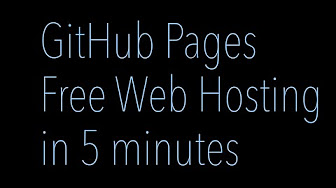
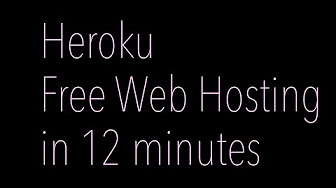
lawnmower

diff --git a/pblog/lawnmower.html b/pblog/lawnmower.html
@@ -1,0 +1,146 @@
+<!DOCTYPE HTML>
+<!--
+
+	Hey, this is Tae Hong Min! Huge shout outs to the creator of this template. I love you so much!
+
+	Modified Strongly Typed by HTML5 UP html5up.net | @ajlkn Free for personal and commercial use under the CCA 3.0 license (html5up.net/license)
+-->
+<html>
+	<head>
+		<title>Chapter One</title>
+		<meta charset="utf-8" />
+		<meta name="viewport" content="width=device-width, initial-scale=1" />
+		<link rel="stylesheet" href="../assets/css/main.css" />
+		<link rel="stylesheet" href="../assets/css/style.css" />
+	</head>
+	<body class="no-sidebar">
+		<div id="page-wrapper">
+
+			<!-- Header -->
+				<div id="header-wrapper">
+					<div id="header" class="container">
+
+						<!-- Logo -->
+							<h1 id="logo"><a href="../index.html">Chapter One</a></h1>
+							<p>Insert very generic subtitle here.</p>
+
+						<!-- Nav -->
+							<nav id="nav">
+								<ul >
+									<li><a class="icon fa-home" href="../index.html"><span>Introduction</span></a></li>
+									<li>
+										<a href="#" class="icon fa-bar-chart-o"><span>Rest of</span></a>
+									</li>
+									<li><a class="icon fa-cog"><span>the nav bar</span></a></li>
+									<li><a class="icon fa-retweet"><span>coming soon!</span></a></li>
+								</ul>
+							</nav>
+
+					</div>
+				</div>
+
+			<!-- Main -->
+				<div id="main-wrapper">
+					<div id="main" class="container">
+						<div id="content">
+
+							<!-- Post -->
+								<article class="box post">
+								<div id="background-article1">
+									<header>
+										<h2>Interview with <a href="https://www.linkedin.com/in/asunnarborg"><strong>Alex Sunnarborg</strong></a> the CFO and one of the founders of <a href="https://lawnmower.io/"><strong>Lawnmower</strong></a></h2>
+									</header>
+									<div id="innerC">
+									<p><!-- the interview -->
+										<i>
+										"Lawnmower is an easy to use information & investment hub for bitcoin & blockchain assets. We allow you to learn about the space, view market data & price quotes for multiple blockchain assets, read news, & invest directly in bitcoin using just your bank account." - <a href="https://lawnmower.io/">https://lawnmower.io/</a>										</i>
+										<br /><br />
+										<b>
+										Hey thanks for being part of my new blog: Chapter One. You guys are the first company I’m interviewing! =]
+										<br />
+										Let's begin. How did you come up with the idea? Also, how did you come up with the name?
+										<br /><br />
+										</b>
+										
+										The first iteration of our product was thought up by Pieter at the Money20/20 Hackathon in Las Vegas in late 2014. The app was called “convert your spare change into bitcoin”, inspired by programs like Bank of America’s “keep the spare change” & Acorns which “round up” purchases made with users’ credit & debit cards and use the differential (“spare change”) to save in bank accounts & ETF portfolios.
+										<br /><br />
+										We’d all been fans of bitcoin since 2011 & wanted to make an app that helped demystify the space & tear down barriers to entry for the mainstream public. We extended the concept to saving with bitcoin & thought the name “Lawnmower” represented something along the lines of trimming the top off of purchases or traditional spending & using the clippings to invest over time. We also thought it was catchy & random enough to get stuck in your head.
+										<br /><br />
+										Our product has evolved over time yet remains committed to demystifying the bitcoin & blockchain space and making it easy for the mass market to both learn about & invest in the asset class we love.
+										
+										<br /><br />
+										<b>
+										What’s the biggest challenge you’ve faced so far in your startup journey so far?
+										</b>
+										<br /><br />
+										Getting the word out about our product without a large marketing budget. You need to be pretty creative to get eyes & downloads on your app without simply paying for targeted advertisements.
+										<br /><br />
+										<b>
+										How do you distinguish Lawnmower from your competitors in the investing cryptocurrency industry?
+										</b>
+										<br /><br />
+										By creating an extremely friendly UI & features modeled off of traditional investment apps like Robinhood in a space that’s plagued with extremely technical & intimidating products that scare off new users. We also write our own news & research to combine both investment tools & information when
+										most other firms seem to focus on one or the other.
+										<br /><br />
+										<b>
+										What are some features we should be excited about in the upcoming updates in the near future?
+										</b>
+										<br /><br />
+										We’re expanding out our investment offerings to assets like Ether. In conjunction with adding new assets we’re building out tools to let you purchase multiple (in the context of a portfolio or index) with the same recurring or instant purchase, & showing you analytics across your multiple holdings.
+										<br /><br />
+										Our research & writing is also going to start to cover upcoming Blockchain Assets that haven’t even begun trading yet (like future ICOs) to help users keep up with the most cutting edge trends & projects. We’re also getting ready to release some promos for new users & existing users that refer their friends to our app.
+										<br /><br />
+										<b>
+										Do you plan to expand your investment options from bitcoin to others such as Etherium and Factom?
+										</b>
+										<br /><br />
+										Yup, absolutely – Ether trading is scheduled to launch on both our iOS & Android apps within a couple weeks & we’re focused on adding support for additional Blockchain Assets as quick as possible. We love the speed at which the entire asset class is growing & want to bring those opportunities to our users as soon as we can.
+										<br /><br />
+										<b>
+										How do you plan to help contribute shape the future of the cryptocurrency industry?
+										</b>
+										<br /><br />
+										By making the easiest, mass market product possible. We really aim to be the pre-eminent app to come to for both learning about & investing in every Blockchain Asset or project our users may have heard of elsewhere, or even being their very first exposure to a new trend or asset. We plan on building out our investment tools, analytics, index products, research, & news to be the most user friendly investment & information platform possible.
+										<br /><br />
+
+										<b>
+										I've personally met the Lawnmower team previously and I can assure you that they are very passionate about the success of their application and bitcoins. It's a really easy-to-use app and a great way to get started on bitcoins. You can check out their app on https://lawnmower.io/. 
+										</b>
+									</p>
+									</div>
+									</div>
+									<span class="image featured"><a href="https://lawnmower.io/" > <img src="../images/Lawnmower.png" alt="" /></a></span> 
+								</article>
+
+						</div>
+					</div>
+				</div>
+
+			<!-- Footer -->
+				<div id="footer-wrapper">
+					<div id="ccright">
+						&copy; <a href="http://taehongmin.com">Tae Hong Min.</a> I love tacos.
+					</div>
+				</div>
+		</div>
+		<div id="counterwrapper">
+			<!-- hitwebcounter Code START -->
+			<a href="http://www.hitwebcounter.com" target="_blank">
+			<img src="http://hitwebcounter.com/counter/counter.php?page=6501386&style=0007&nbdigits=5&type=page&initCount=0" title="" Alt=""   border="0" >
+			</a>                                        <br/>
+			<!-- hitwebcounter.com --><a href="http://www.hitwebcounter.com" title="Live Stats For Website" 
+			target="_blank" style="font-family: Geneva, Arial, Helvetica, sans-serif; 
+			font-size: 10px; color: #908C86; text-decoration: underline ;"><em>Live Stats For Website                                        </em>
+			</a>   
+		</div>
+		<!-- Scripts -->
+			<script src="../assets/js/jquery.min.js"></script>
+			<script src="../assets/js/jquery.dropotron.min.js"></script>
+			<script src="../assets/js/skel.min.js"></script>
+			<script src="../assets/js/skel-viewport.min.js"></script>
+			<script src="../assets/js/util.js"></script>
+			<!--[if lte IE 8]><script src="assets/js/ie/respond.min.js"></script><![endif]-->
+			<script src="../assets/js/main.js"></script>
+
+	</body>
+</html>

diff --git a/index.html b/index.html
@@ -57,6 +57,17 @@
 									<!-- Post -->
 										<article class="box post articleContainer">
 											<header>
+												<h2><a href="/pblog/lawnmower.html">Interview with <strong>Alex Sunnarborg</strong> the CFO and one of the founders of <strong>Lawnmower</strong></a></h2>
+											</header>
+											<a class="image featured" href="/pblog/lawnmower.html"><img src="images/lm1.png"/></a>
+											<h3>Lawnmower.io</h3>
+											<p><i>"Lawnmower is an easy to use information & investment hub for bitcoin & blockchain assets. We allow you to learn about the </i> </p>
+											<ul class="actions">
+												<li><a href="/pblog/blog1.html" class="button icon fa-file">Continue Reading</a></li>
+											</ul>
+										</article>
+										<article class="box post articleContainer">
+											<header class="header2">
 												<h2><a href="/pblog/blog1.html">Welcome to my <strong>personal blog!</strong></a></h2>
 											</header>
 											<a class="image featured"><img src="images/1.png" alt="http://cdn.wallpapersafari.com/15/60/FZtlK1.jpg" /></a><!--img from http://cdn.wallpapersafari.com/15/60/FZtlK1.jpg-->
@@ -80,9 +91,9 @@
 													<!-- Excerpt -->
 														<article class="box excerpt">
 															<header>
-																<h3><a href="https://medium.com/the-mission/the-greatest-sales-deck-ive-ever-seen-4f4ef3391ba0#.xmv49lp02">Blog Spotlight</a></h3>
+																<h3><a href="https://backchannel.com/you-too-can-become-a-machine-learning-rock-star-no-phd-necessary-107a1624d96b#.8kjzcylu6">Blog Spotlight</a></h3>
 															</header>
-															<p><a href="https://medium.com/the-mission/the-greatest-sales-deck-ive-ever-seen-4f4ef3391ba0#.xmv49lp02">"..When you assert that your prospects have a problem, you put them on the defensive. They may be unaware of the problem, or uncomfortable admitting they suffer from it..."</a></p>
+															<p><a href="https://backchannel.com/you-too-can-become-a-machine-learning-rock-star-no-phd-necessary-107a1624d96b#.8kjzcylu6">"..But what if you could get the benefits of AI without having to hire those hard-to-find and expensive-to-woo talents? What if smart software could lower the bar? Could you get deep learning with a shallower talent pool?..."</a></p>
 														</article>
 
 												</li>
@@ -91,10 +102,10 @@
 													<!-- Excerpt -->
 														<article class="box excerpt">
 															<header>
-																<h3><a href="https://www.youtube.com/watch?v=hXorYP_HQtM">Video Spotlight of the week</a></h3>
+																<h3><a href="https://www.youtube.com/watch?v=P86N9FqNqso">Video Spotlight of the week</a></h3>
 															</header>
-															<a href="https://www.youtube.com/watch?v=hXorYP_HQtM" class="image left"><img src="images/vspv.jpg" alt="" /></a>
-															<p><a>GitHub Hosting in 5 minutes</p>
+															<a href="https://www.youtube.com/watch?v=P86N9FqNqso" class="image left"><img src="images/vspv.jpg" alt="" /></a>
+															<p><a>Heroku Free Web Hosting</p>
 														</article>
 
 												</li>
@@ -115,7 +126,16 @@
 				</div>
 
 		</div>
-
+		<div id="counterwrapper">
+			<!-- hitwebcounter Code START -->
+			<a href="http://www.hitwebcounter.com" target="_blank">
+			<img src="http://hitwebcounter.com/counter/counter.php?page=6501386&style=0007&nbdigits=5&type=page&initCount=0" title="" Alt=""   border="0" >
+			</a>                                        <br/>
+			<!-- hitwebcounter.com --><a href="http://www.hitwebcounter.com" title="Live Stats For Website" 
+			target="_blank" style="font-family: Geneva, Arial, Helvetica, sans-serif; 
+			font-size: 10px; color: #908C86; text-decoration: underline ;"><em>Live Stats For Website                                        </em>
+			</a>   
+		</div>
 		<!-- Scripts -->
 			<script src="assets/js/jquery.min.js"></script>
 			<script src="assets/js/jquery.dropotron.min.js"></script>

diff --git a/pblog/blog1.html b/pblog/blog1.html
@@ -73,7 +73,16 @@
 				</div>
 
 		</div>
-
+		<div id="counterwrapper">
+			<!-- hitwebcounter Code START -->
+			<a href="http://www.hitwebcounter.com" target="_blank">
+			<img src="http://hitwebcounter.com/counter/counter.php?page=6501386&style=0007&nbdigits=5&type=page&initCount=0" title="" Alt=""   border="0" >
+			</a>                                        <br/>
+			<!-- hitwebcounter.com --><a href="http://www.hitwebcounter.com" title="Live Stats For Website" 
+			target="_blank" style="font-family: Geneva, Arial, Helvetica, sans-serif; 
+			font-size: 10px; color: #908C86; text-decoration: underline ;"><em>Live Stats For Website                                        </em>
+			</a>   
+		</div>
 		<!-- Scripts -->
 			<script src="../assets/js/jquery.min.js"></script>
 			<script src="../assets/js/jquery.dropotron.min.js"></script>

diff --git a/assets/css/main.css b/assets/css/main.css
@@ -1164,7 +1164,7 @@
 
 	p {
 		text-align: justify;
-		margin-bottom: 2em;
+/*		margin-bottom: 2em;*/
 	}
 
 	ul, ol, dl, table, blockquote {
@@ -1270,7 +1270,7 @@
 			}
 
 	ul.actions {
-		margin-top: 2.5em;
+/*		margin-top: 2.5em;*/
 		clear: both;
 	}
 
@@ -1773,7 +1773,7 @@
 			h3 {
 				font-size: 1em;
 				letter-spacing: 2px;
-				margin: 0 0 1.25em 0;
+				margin: 0 0 .5em 0;
 			}
 
 		/* Table */

diff --git a/assets/css/style.css b/assets/css/style.css
@@ -1,5 +1,5 @@
 .articleContainer{
-	margin: 50px 0px 30px 0px;
+	margin: 40px 0px 30px 0px;
 }
 
 #ccright{
@@ -9,4 +9,20 @@
 
 #sidebarlist{
 	margin: 50px 0px 0px 0px !important;
+}
+
+#counterwrapper{
+	display: none;
+}
+
+#background-article1{
+	background-color: white;
+}
+
+#innerC{
+	color: black;
+}
+
+.header2{
+	margin: 20px 0px 0px 0px;
 }
